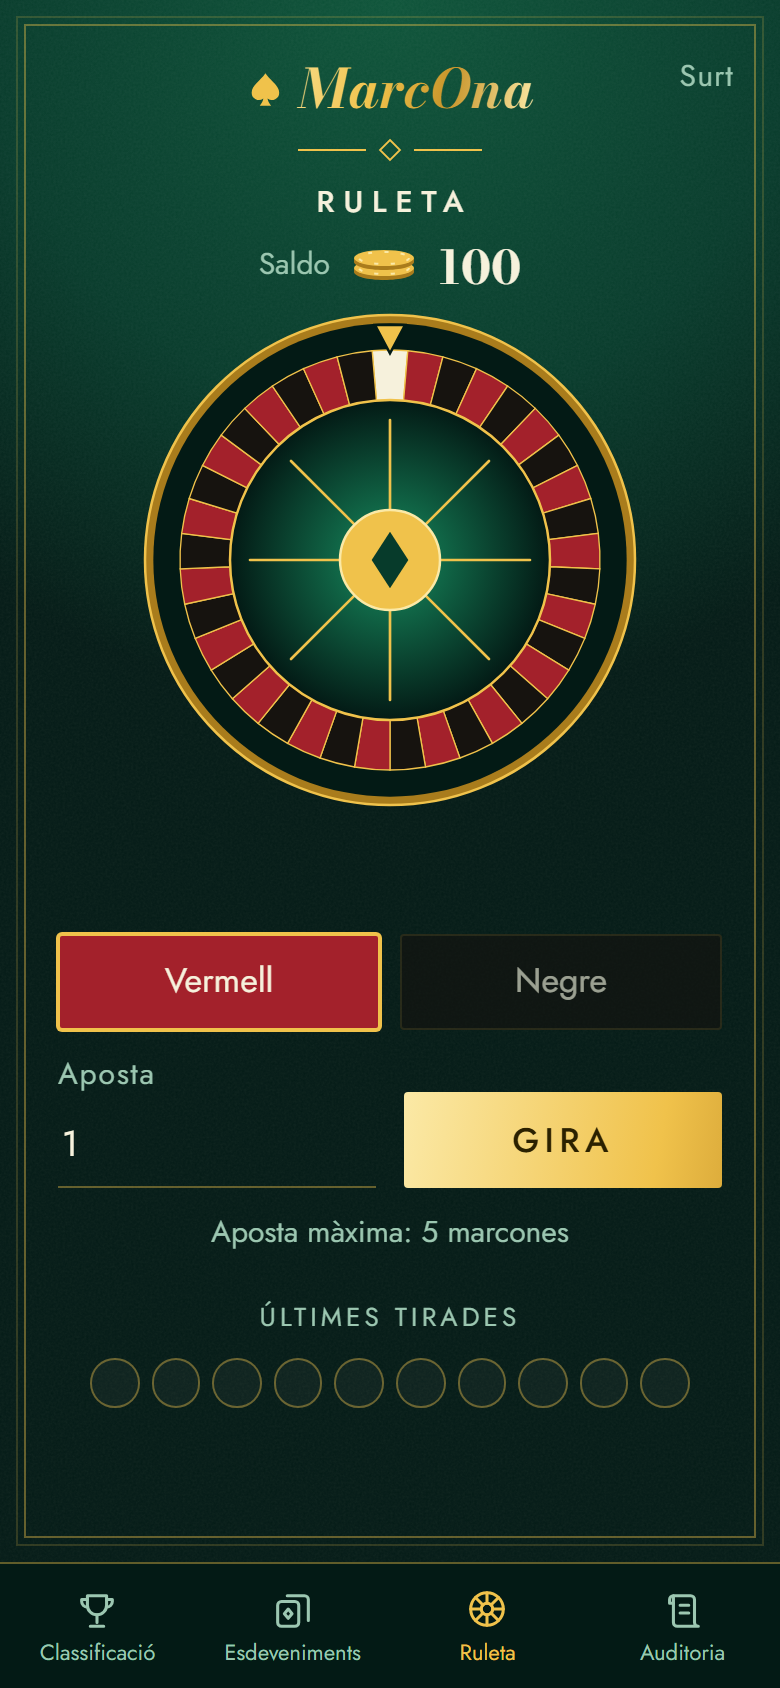
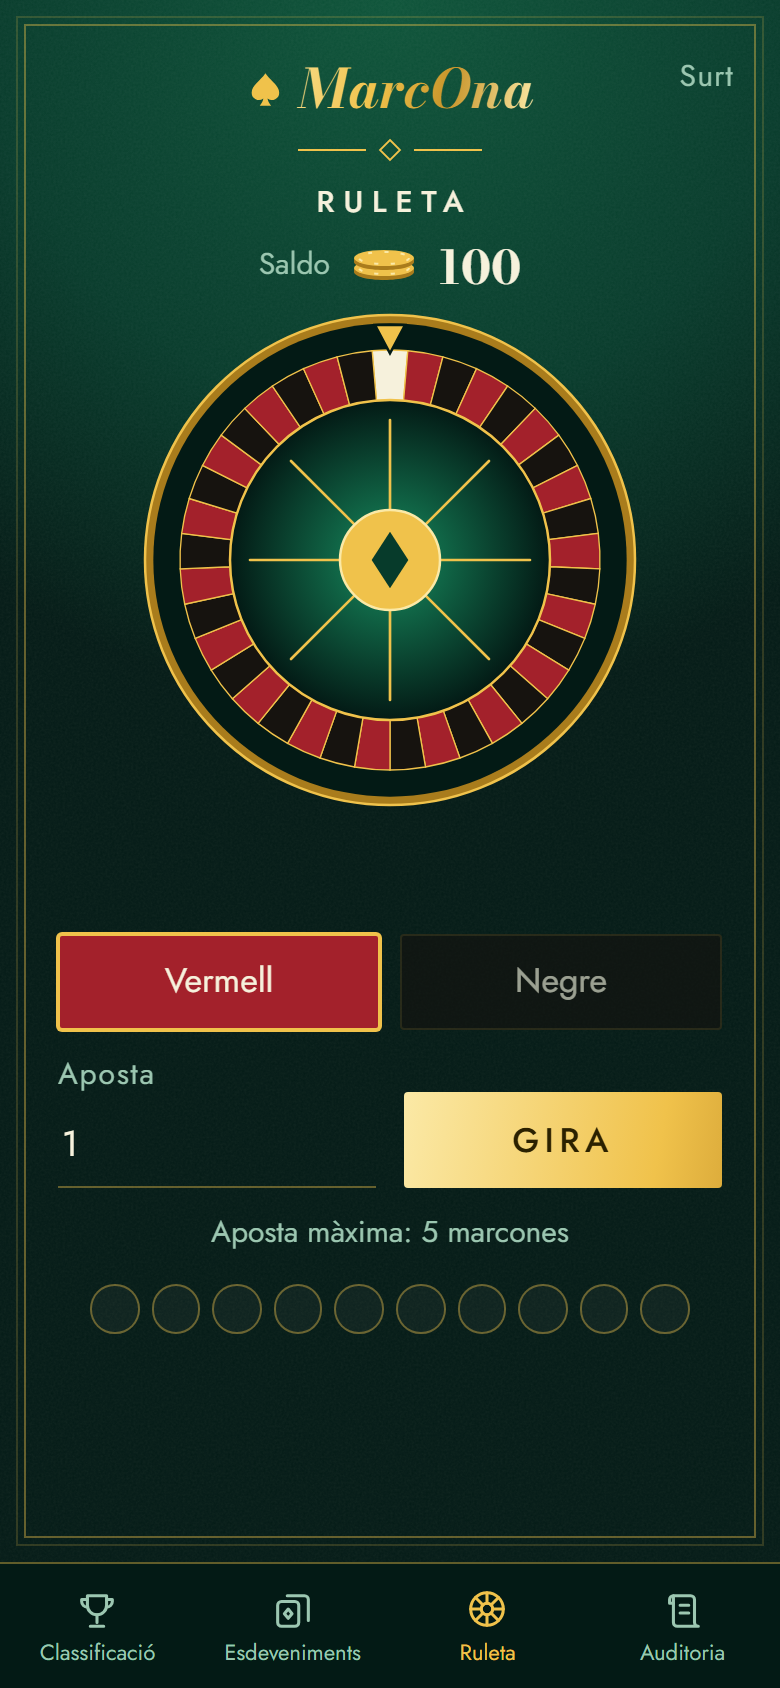
docs(review): retake the board screenshots without its title
Slice: 008

diff --git a/slices/008-event-readiness/review.md b/slices/008-event-readiness/review.md
@@ -81,7 +81,7 @@ Parts A and B take about 15 minutes, with your phone. Part C, the rehearsal, tak
 | Check | Command | Result |
 |---|---|---|
 | Unit tests | `npm test` | 20 files, 144 passed, including the CSV (quoting, accents, and text a spreadsheet would run as a formula) and the board (10 places, newest first, only 10 kept, and a spin made during the first read kept once) |
-| Browser tests, phone-sized, Chromium and WebKit | `npm run test:e2e` | Final run: 604 passed, 1 failed, 1 skipped. The failure is the older WebKit slow-connection duel test, REQ-215, already in the backlog, which fails on `main` too. The skip is a Chromium-only check. This slice's 15 new tests pass in both engines: 9 for the data panels and 6 for the board. They failed when the word check, the lock check or the board's timing was broken on purpose, and the Enter test failed until Enter could no longer wipe. An earlier full run also had 3 real logins hit the Auth rate limit, a WebKit ranking test, and the WebKit resting-screen duel test fail. The first 4 passed when rerun. The last fails on `main` too, and is now in the backlog as REQ-217 |
+| Browser tests, phone-sized, Chromium and WebKit | `npm run test:e2e` | Final run: 604 passed, 1 failed, 1 skipped. The failure is the older WebKit slow-connection duel test, REQ-215, already in the backlog, which fails on `main` too. The skip is a Chromium-only check. This slice's 16 new tests pass in both engines: 9 for the data panels and 7 for the board, one of which checks the whole board fits above the tabs at 360 by 740 without scrolling. They failed when the word check, the lock check, the board's timing or its position was broken on purpose, and the Enter test failed until Enter could no longer wipe. An earlier full run also had 3 real logins hit the Auth rate limit, a WebKit ranking test, and the WebKit resting-screen duel test fail. The first 4 passed when rerun. The last fails on `main` too, and is now in the backlog as REQ-217 |
 | Hosted tests on the real project | `npm run test:hosted` | Final run: 178 passed, 1 failed, 11 skipped, as two files hit the Auth rate limit right after the browser suite. Both passed when rerun, 71 tests. The board's hosted test now needs no second login. Among them: 12 real spins come back as the last 10, newest first, each only the player's own. In an earlier run, this slice's export check ran past the database's 8-second limit while the other files were loading the project. That check now reads one movement, and the risk is logged as REQ-218 |
 | The export, wipe and lock rules | `tests/sql/readiness.sql` through `execute_sql` | 16 entries, all passed. It wipes the real project inside a transaction and always rolls back. The wipe took 0.9 seconds. Among the entries: an unrevealed choice appears nowhere in the export; a player can't export, wipe or lock; four wrong words change nothing; after the wipe only you remain, at 0, with the settings and games unchanged; an old username can be used again; the ledger refuses deletes again as soon as the wipe returns; once locked, the right word is refused |
 | Owner-only constraints | `tests/sql/constraints.sql` through `execute_sql` | 19 entries, all rejected, after the migration that changed the ledger's trigger |
@@ -90,7 +90,7 @@ Parts A and B take about 15 minutes, with your phone. Part C, the rehearsal, tak
 | Security advisors | Supabase MCP server | No new kind of finding. The three new functions join the existing list of security definer functions that signed-in users can call, which is by design, as each checks for the admin first |
 | Docs | `python scripts/check_docs.py` | Passed |
 
-Instructions run as written: steps 1 to 7 by a script on the deployed site at phone size, as the admin, which took the screenshots and never tapped the wipe or the lock. The board's screenshots by a script on the deployed site as a fresh test account, which spun 12 times: empty, then black, red, black after 3, then the 10 newest after 12, among them a white, and the same after a reload. Steps 10 and 11 by reading the documents. Step 12 can only be done on real phones, by you. The `npm.cmd` commands were run under PowerShell's restricted policy, `status` only, as `fund` changes data.
+Instructions run as written: steps 1 to 7 by a script on the deployed site at phone size, as the admin, which took the screenshots and never tapped the wipe or the lock. The board's screenshots by a script on the deployed site as a fresh test account, which spun 12 times: empty, then 3 filled after 3 spins, then the 10 newest after 12, and the same after a reload. They're taken with the screen unscrolled, and the whole board shows. Steps 10 and 11 by reading the documents. Step 12 can only be done on real phones, by you. The `npm.cmd` commands were run under PowerShell's restricted policy, `status` only, as `fund` changes data.
 
 Audit by `slice-auditor`: it ran steps 1 to 7 on the deployed site with the wipe and lock calls blocked, and found every result as described. It failed the review on one safety problem, now fixed: with `ESBORRA` typed, the phone keyboard's Go or Enter key ran the wipe at once, as the wipe was a form. It's no longer a form, so only the button wipes, and a test proves Enter sends nothing. It also found that the checklist didn't say which phone plays whom, had one wrong rule about when a duel charges, left out the demo commands, and misdescribed `fund`, and that the advice for checking the wipe pointed at **Classificació**, which shows its empty state with only one account. All are fixed. No second audit ran of the data panels.
 
@@ -105,6 +105,7 @@ Second audit by `slice-auditor`, of the board only: it passed. It ran steps 8 an
 - **A large export can time out.** With about 12,000 test movements, it once took over 8 seconds while the project was busy. After the wipe there's far less data. Logged as REQ-218.
 - **Only the database owner can undo the lock,** with SQL. That's on purpose.
 - **The board only refreshes on Ruleta when you open it or spin,** like the rest of Ruleta. A spin made on another phone at the same moment shows the next time you open it.
+- **The board's title, Últimes tirades, was removed at your request,** as it pushed the circles below the fold on your phone. Screen readers still announce the row by that name. The second audit ran before this change.
 - **The board was added after the first audit,** described at the end of section 5. A second audit covered the board.
 - **REQ-171, REQ-173 and REQ-174 happen on 12 November,** after this slice closes. This slice delivers the steps and proves the read-only switch.
 - **The checklist's commit** linked to the guide one commit before the guide existed, so the docs check fails at that one commit. It passes now.
